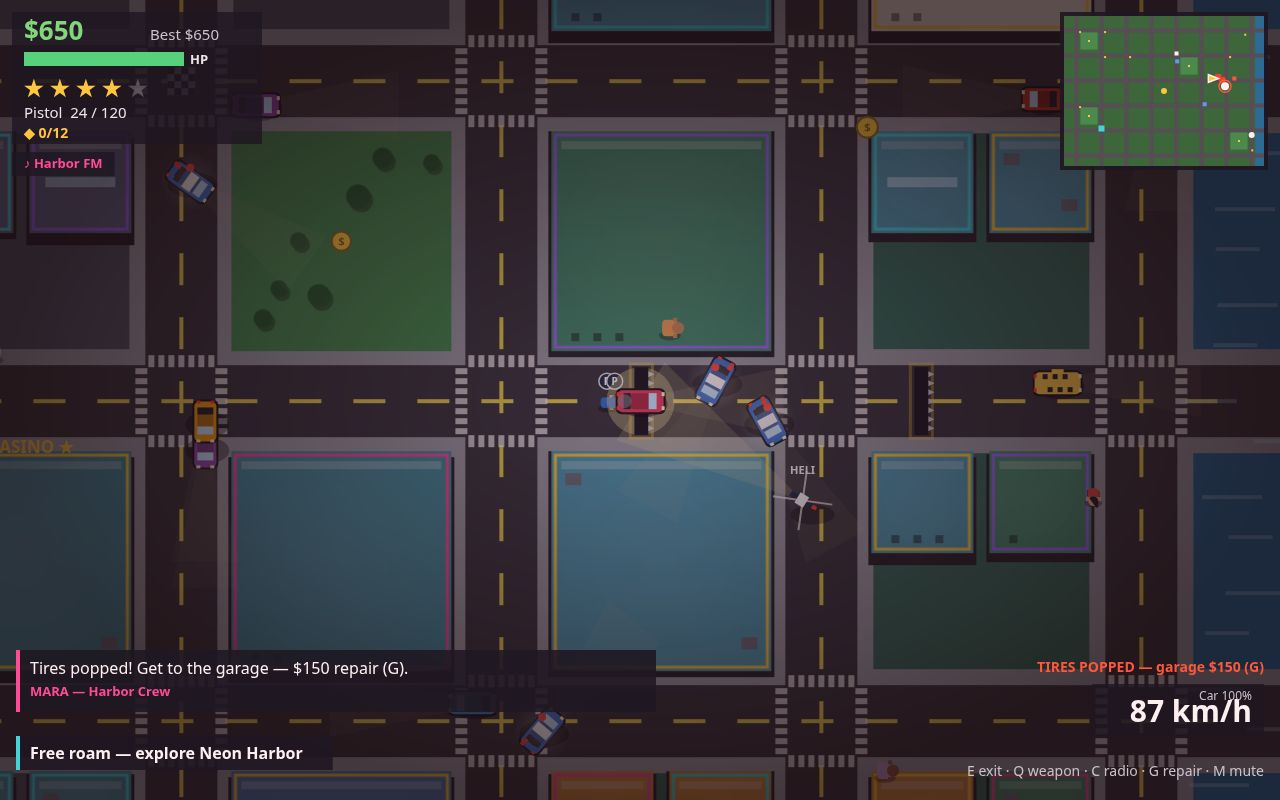
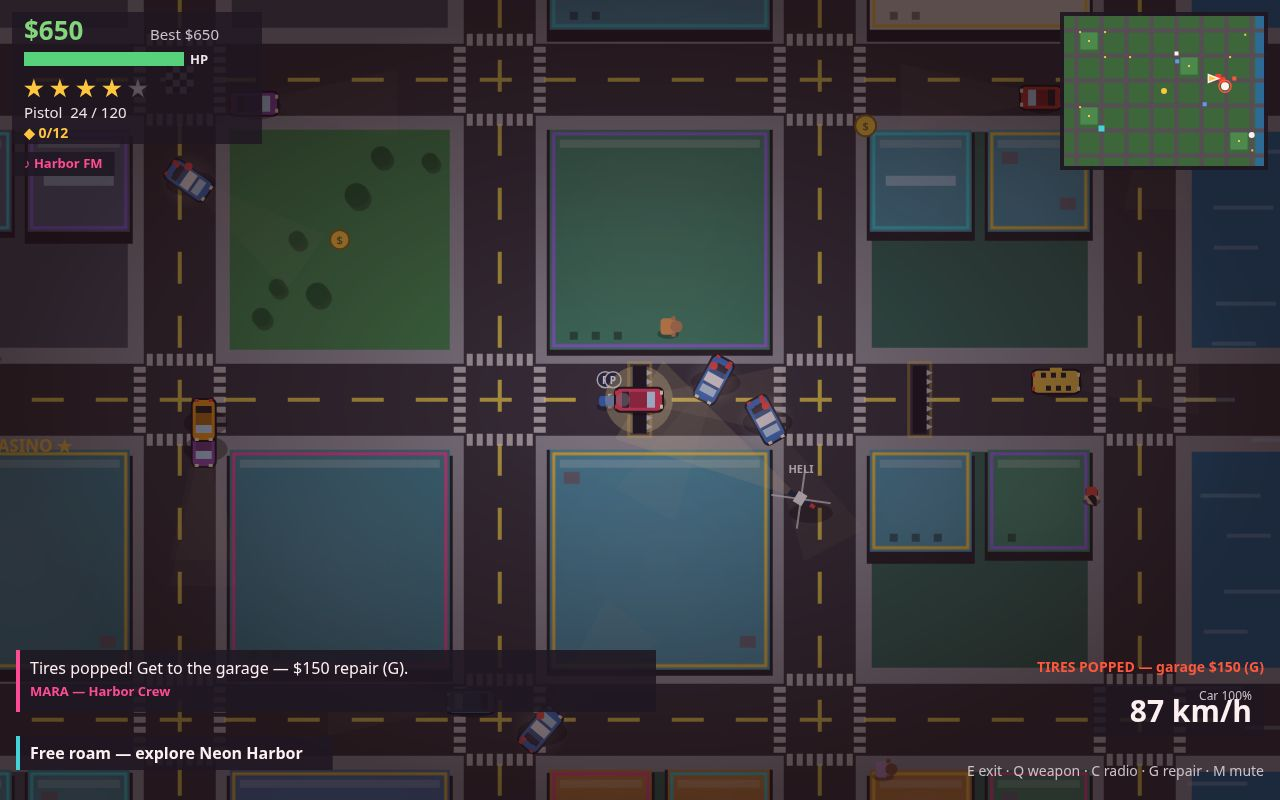
Neon Harbor round 3 fix: restore marinaTarget dropped in the mission-5 edit
The casino/lighthouse edit accidentally deleted the marinaTarget
helper, so reaching mission 1 stage 1 threw ReferenceError. Caught by
the Node-level restore check (all cases now pass: mission 1 stage 1
-> marina target, mission 2 wanted 3 restored without instant
complete, mission 5 stage 1 -> lighthouse target).

diff --git a/game/src/missions.js b/game/src/missions.js
@@ -6,9 +6,17 @@
 // instead of from the start. Side activities run alongside the story: a
 // street race around Downtown, harbor tokens hidden around the city,
 // weapon pickups (SMG at the plaza, shotgun at the docks), taxi fares for
-// quick cash, and a garage that repairs a battered car for $150.
-import { CHECKPOINT_KEY, COLLECTIBLE_COUNT, COLLECTIBLE_VALUE, GARAGE_COST, MISSION_REWARDS, RACE_REWARD, TAXI_FARE, TAXI_TIME_LIMIT } from './config.js';
-import { addWanted, clearPolice, spawnPoliceUnit } from './police.js';
+// quick cash, a garage that repairs a battered car for $150 — or resprays
+// it for $150 to drop one wanted star — and a bubblegum-pink taxi worth
+// $1,000 to the crew if Jax steals it.
+//
+// The story twist: Mara is the police commissioner's daughter. She tipped
+// off the police in mission 3 ("Lose the Heat" was her setup, not bad
+// luck) to protect Jax from a crew that was going to kill him. In the
+// finale she flips: she helps Jax rob the police evidence vault for the
+// ledger that proves her father is corrupt.
+import { CHECKPOINT_KEY, COLLECTIBLE_COUNT, COLLECTIBLE_VALUE, GARAGE_COST, MISSION_REWARDS, PINK_TAXI_REWARD, RACE_REWARD, RESPRAY_COST, RESPRAY_STARS, TAXI_FARE, TAXI_TIME_LIMIT } from './config.js';
+import { addWanted, clearPolice, dropWanted, spawnPoliceUnit } from './police.js';
 
 export const MISSION_DEFS = [
   {
@@ -33,12 +41,12 @@ export const MISSION_DEFS = [
   },
   {
     title: 'Lose the Heat',
-    brief: 'The delivery was flagged. The police are all over the harbor.',
-    objective: 'Lose the heat — get your wanted level back to 0',
+    brief: 'The delivery was flagged. The police are all over the harbor — and Mara made the call.',
+    objective: 'Lose the heat — Mara set you up. Get your wanted level back to 0',
     reward: MISSION_REWARDS[2],
     dialogue: [
-      'MARA: The marina cameras caught your plate. Lay low, Jax.',
-      'MARA: Stay out of trouble until the heat dies down.',
+      'MARA: Jax... I tipped them off. The marina cameras — I made that call.',
+      'MARA: The crew was going to kill you tonight. I bought you time. Lay low until the heat dies down.',
     ],
   },
   {
@@ -53,12 +61,12 @@ export const MISSION_DEFS = [
   },
   {
     title: 'The Last Run',
-    brief: "The crew's cut is stashed at the casino. Grab it, run it to the lighthouse, and Neon Harbor is yours.",
-    objective: 'Grab the cut at the casino, then run it to the lighthouse',
+    brief: "Mara flips: rob the police evidence vault for the ledger that proves her father — the commissioner — is corrupt. Run it to the lighthouse, and Neon Harbor is yours.",
+    objective: 'Grab the ledger at the evidence vault, then run it to the lighthouse',
     reward: MISSION_REWARDS[4],
     dialogue: [
-      'MARA: One last run, Jax. The crew’s cut is stashed at the casino.',
-      'MARA: Grab it and bring it to the lighthouse. Then we are free.',
+      'MARA: My father runs the Harbor Police — and the ledger in the evidence vault proves it.',
+      'MARA: I cut the power to the district. Grab the ledger, get to the lighthouse. Then we are free.',
     ],
   },
 ];
@@ -83,8 +91,17 @@ function plazaTarget(city) {
 function docksTarget(city) {
   return { x: city.docks.x + 60, y: city.docks.y + 140, label: 'Docks' };
 }
+function marinaTarget(city) {
+  return { x: city.marina.x + 84, y: city.marina.y + 80, label: 'Marina' };
+}
 function casinoTarget(city) {
   return { x: city.casino.x, y: city.casino.y, label: 'Casino' };
+}
+// The finale's target is the police evidence vault — the same Downtown
+// tower as the old casino stash, retargeted for the heist against Mara's
+// father. One objective change, same building, new story.
+function vaultTarget(city) {
+  return { x: city.casino.x, y: city.casino.y, label: 'Evidence Vault' };
 }
 function lighthouseTarget(city) {
   return { x: city.lighthouse.x, y: city.lighthouse.y, label: 'Lighthouse' };
@@ -96,7 +113,7 @@ export function targetForMission(city, index, stage) {
   if (index === 1) return stage === 0 ? plazaTarget(city) : marinaTarget(city);
   if (index === 2) return null;
   if (index === 3) return docksTarget(city);
-  if (index === 4) return stage === 0 ? casinoTarget(city) : lighthouseTarget(city);
+  if (index === 4) return stage === 0 ? vaultTarget(city) : lighthouseTarget(city);
   return null;
 }
 
@@ -208,7 +225,7 @@ export function startMission(world, index) {
     world.gunmen = 4;
     for (let i = 0; i < 4; i += 1) spawnPoliceUnit(world.police, world.player, world.rng, 'gunman', world.city);
   } else if (index === 4) {
-    mission.target = casinoTarget(city);
+    mission.target = vaultTarget(city);
   }
   saveCheckpoint(world, `${def.title} — start`);
 }
@@ -225,7 +242,7 @@ function completeMission(world) {
     mission.done = true;
     world.gunmen = 0;
     clearPolice(world.police);
-    mission.dialogue = ['MARA: We made it, Jax. Neon Harbor is ours now.', 'Free roam — the city is yours.'];
+    mission.dialogue = ['The harbor keeps its secrets. So do we.', 'MARA: The ledger is ours. We are free now.'];
     mission.dialogueTimer = 8;
     clearCheckpoint();
   } else {
@@ -288,13 +305,13 @@ export function updateMission(world, dt) {
     }
     if (mission.stage === 1 && near(world, docksTarget(city), 90)) completeMission(world);
   } else if (mission.index === 4) {
-    if (mission.stage === 0 && near(world, casinoTarget(city), 90)) {
+    if (mission.stage === 0 && near(world, vaultTarget(city), 90)) {
       mission.stage = 1;
       mission.target = lighthouseTarget(city);
-      mission.dialogue = ['Cut secured. Now the lighthouse, east end of the docks.'];
+      mission.dialogue = ['Ledger secured. Now the lighthouse, east end of the docks.'];
       mission.dialogueTimer = 4;
       world.events.pickup = true;
-      saveCheckpoint(world, 'The Last Run — cut grabbed');
+      saveCheckpoint(world, 'The Last Run — ledger grabbed');
     }
     if (mission.stage === 1 && near(world, lighthouseTarget(city), 90)) completeMission(world);
   }
@@ -425,6 +442,40 @@ export function repairAtGarage(world) {
   p.car.tiresPopped = false;
   world.events.repair = true;
   return 'ok';
+}
+
+/**
+ * Respray the player's car at the garage bay: $150 for a fresh paint
+ * job, and the heat drops by one star — new colour, new plate, cooler
+ * trail. Returns 'ok', 'broke', 'clean' (no heat to lose) or 'far'.
+ */
+export function resprayAtGarage(world) {
+  const p = world.player;
+  const g = world.city.garage;
+  if (!p.inCar || !p.car) return 'far';
+  if (Math.hypot(p.car.x - g.x, p.car.y - g.y) > 80) return 'far';
+  if (world.wanted < 1) return 'clean';
+  if (world.cash < RESPRAY_COST) return 'broke';
+  world.cash -= RESPRAY_COST;
+  const choices = world.city.carColors.filter((c) => c !== p.car.color);
+  const paint = choices.length ? world.rng.pick(choices) : '#37e0e6';
+  p.car.color = paint;
+  p.car.paint = paint;
+  dropWanted(world, RESPRAY_STARS);
+  world.events.repair = true;
+  return 'ok';
+}
+
+/** The pink-taxi bounty: stealing the bubblegum-pink cab pays $1,000. */
+export function claimPinkTaxi(world) {
+  const car = world.player.car;
+  if (!car || !car.pink || car.pinkClaimed) return false;
+  car.pinkClaimed = true;
+  world.cash += PINK_TAXI_REWARD;
+  world.events.cash = true;
+  world.mission.dialogue = [`PINK TAXI! The rarest cab in Neon Harbor — $${PINK_TAXI_REWARD} from the crew.`];
+  world.mission.dialogueTimer = 5;
+  return true;
 }
 
 /** Collect harbor tokens and weapon pickups the player walks or drives over. */
